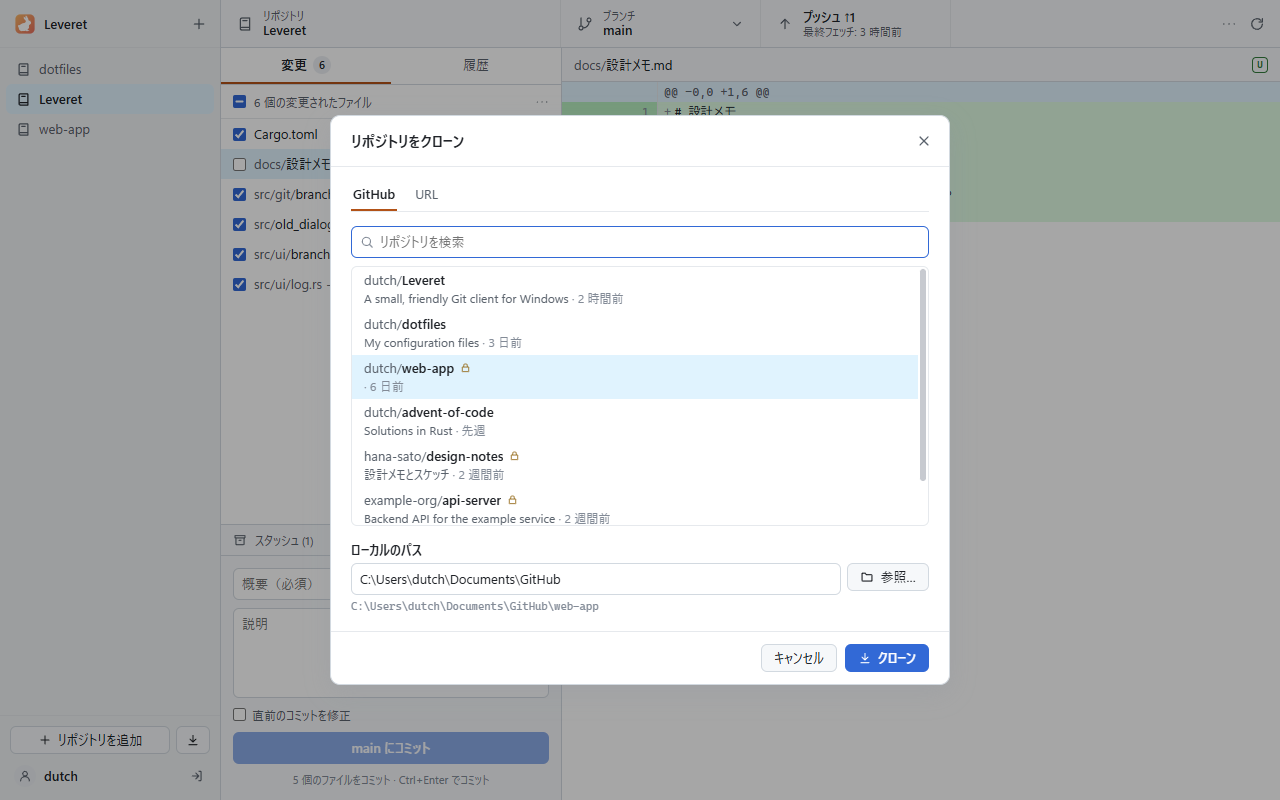
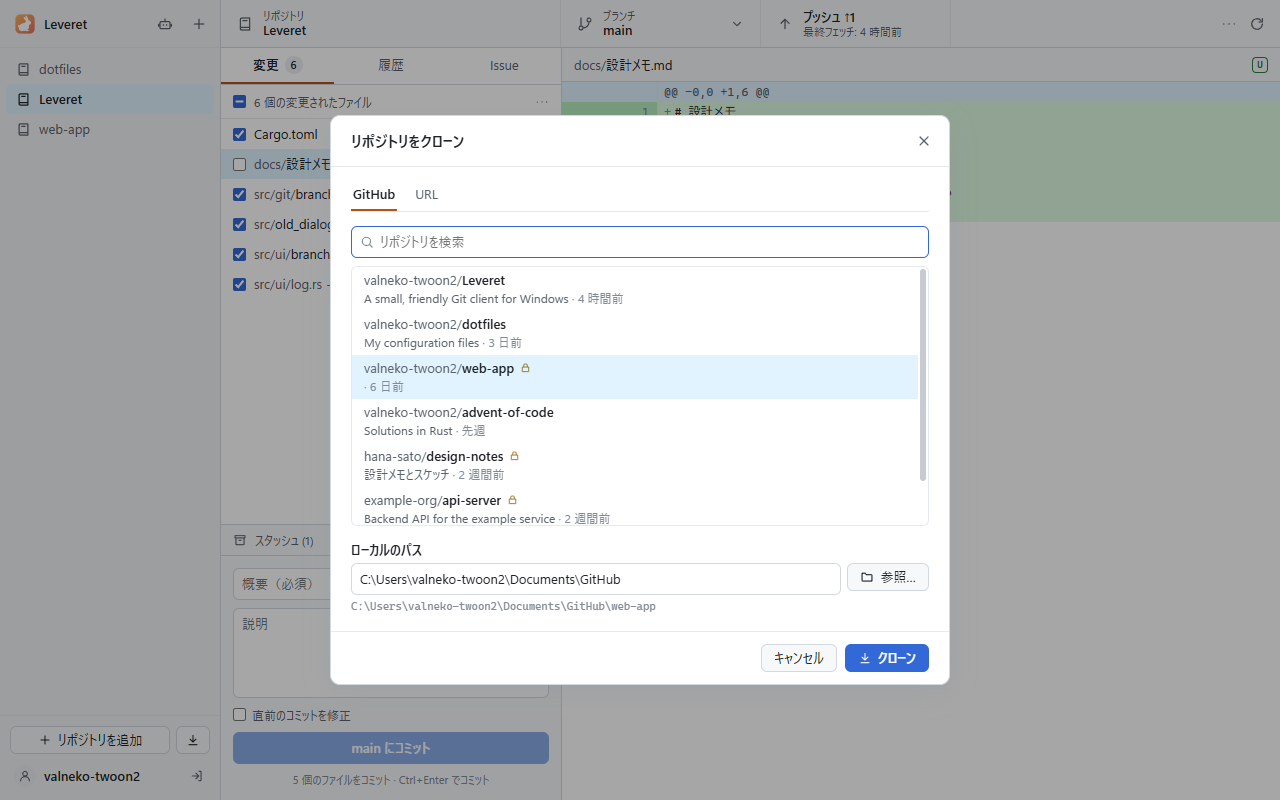
docs: document issues and refresh screenshots
- Issues feature, shortcut, layout and 38 agent tools in both READMEs
- New screenshots for issues and the performance panel; mock user valneko-twoon2

diff --git a/README.md b/README.md
@@ -34,6 +34,7 @@ Pick a repository from your list, review the changes, commit. That's it.
 | **Undo-friendly** | Discarded changes go to the Recycle Bin; amend or undo the last commit; revert or cherry-pick any commit. |
 | **Clear conflicts** | A banner for stopped merges, rebases and reverts: mark resolved, continue, skip or abort. |
 | **Stash** | Put work aside and bring it back later. |
+| **Issues** | GitHub issues and local issues side by side: jot an issue down locally, publish it to GitHub when you want (optional). |
 | **Comfortable** | Resizable panes, right-click menus, keyboard shortcuts and history search. |
 | **Readable diffs** | Line numbers, hunk headers, and Shift_JIS files decoded correctly. |
 | **History with a graph** | Branch lanes, branch / remote / tag labels, commit details and per-file diffs. |
@@ -114,6 +115,22 @@ Pick a repository from your list, review the changes, commit. That's it.
       <p align="center"><b>Welcome</b> — add or clone your first repository</p>
     </td>
   </tr>
+  <tr>
+    <td width="50%">
+      <picture>
+        <source media="(prefers-color-scheme: dark)" srcset="docs/screenshots/dark/17-issues.png">
+        <img alt="Issues tab with GitHub and local issues" src="docs/screenshots/light/17-issues.png">
+      </picture>
+      <p align="center"><b>Issues</b> — GitHub and local, publish when ready</p>
+    </td>
+    <td width="50%">
+      <picture>
+        <source media="(prefers-color-scheme: dark)" srcset="docs/screenshots/dark/16-performance.png">
+        <img alt="Performance panel with timings per step" src="docs/screenshots/light/16-performance.png">
+      </picture>
+      <p align="center"><b>Performance</b> — every step timed (Ctrl+Shift+D)</p>
+    </td>
+  </tr>
 </table>
 
 ## How it works
@@ -167,11 +184,11 @@ args = ["--mcp"]
 | Access level | Agents may |
 |---|---|
 | Off | nothing |
-| Read-only | read status, diffs, history, branches and stashes |
-| **Standard** (default) | also commit, push / pull / fetch, branch, merge, rebase, revert, cherry-pick, stash |
-| Full | also discard changes, delete branches, abort / skip operations, drop stashes |
+| Read-only | read status, diffs, history, branches, stashes and issues |
+| **Standard** (default) | also commit, push / pull / fetch, branch, merge, rebase, revert, cherry-pick, stash, create / edit / comment on / publish issues |
+| Full | also discard changes, delete branches, abort / skip operations, drop stashes, delete local issues |
 
-- **31 tools** with JSON schemas and MCP annotations (read-only / destructive / open-world), written for models:
+- **38 tools** with JSON schemas and MCP annotations (read-only / destructive / open-world), written for models:
   repositories by name or path (a working directory inside one works too), branches like `main` or `origin/main`,
   revisions like `HEAD~1`; compact JSON results with next steps, e.g. the conflicted files after a rebase stops.
 - **Visible to the user**: every change an agent makes is logged; the app shows a notification and refreshes itself.
@@ -219,7 +236,7 @@ so it never appears on a command line or in a repository's config.
 
 | Keys | Action |
 |---|---|
-| `Ctrl+1` / `Ctrl+2` | Changes / History |
+| `Ctrl+1` / `Ctrl+2` / `Ctrl+3` | Changes / History / Issues |
 | `Ctrl+Enter` | Commit |
 | `Ctrl+B` | Branches |
 | `Ctrl+Shift+N` | New branch |
@@ -297,7 +314,7 @@ Leveret treats its own webview as untrusted and keeps the Rust backend as the tr
 ```text
 frontend/                 Svelte UI (its own package.json, vite.config.ts, tsconfig)
   src/lib/state.svelte.ts   app store: repositories, status, the one-at-a-time action guard
-  src/lib/changes.svelte.ts changes tab, commit form, stash (also history / branches / agents stores)
+  src/lib/changes.svelte.ts changes tab, commit form, stash (also history / issues / branches / agents stores)
   src/lib/github.svelte.ts  GitHub account, sign-in and clone state
   src/lib/api.ts            typed wrappers for backend commands (round trips are timed)
   src/lib/perf.ts           timings, budgets, the performance panel's data
@@ -314,6 +331,7 @@ backend/                  Rust / Tauri (its own Cargo.toml, tauri.conf.json)
   src/git/                  status, diff, log + graph, commit, clone, remote, branch,
                             operation (merge / rebase / revert), discard, stash
   src/agent/                tools for AI agents (tools/, one module per area) and the MCP server (mcp.rs)
+  src/issues/               local issues (.git/leveret/issues.json) and GitHub issues
   src/perf.rs               timing samples, perf.jsonl
   src/settings.rs           settings.json (agent access level)
   src/github.rs             device flow, token storage, repository list
@@ -342,6 +360,7 @@ Backend errors arrive as `{ code, detail }` and are shown through the `errors.<c
 - [x] Branch create / switch / delete, checkout
 - [x] Revert, cherry-pick, merge, rebase, stash
 - [x] MCP server for AI agents
+- [x] Issues: GitHub and local, with publishing
 - [ ] In-app agents (Claude, Codex, GitHub Copilot, Ollama)
 - [ ] Open diffs in WinMerge
 - [ ] English UI
